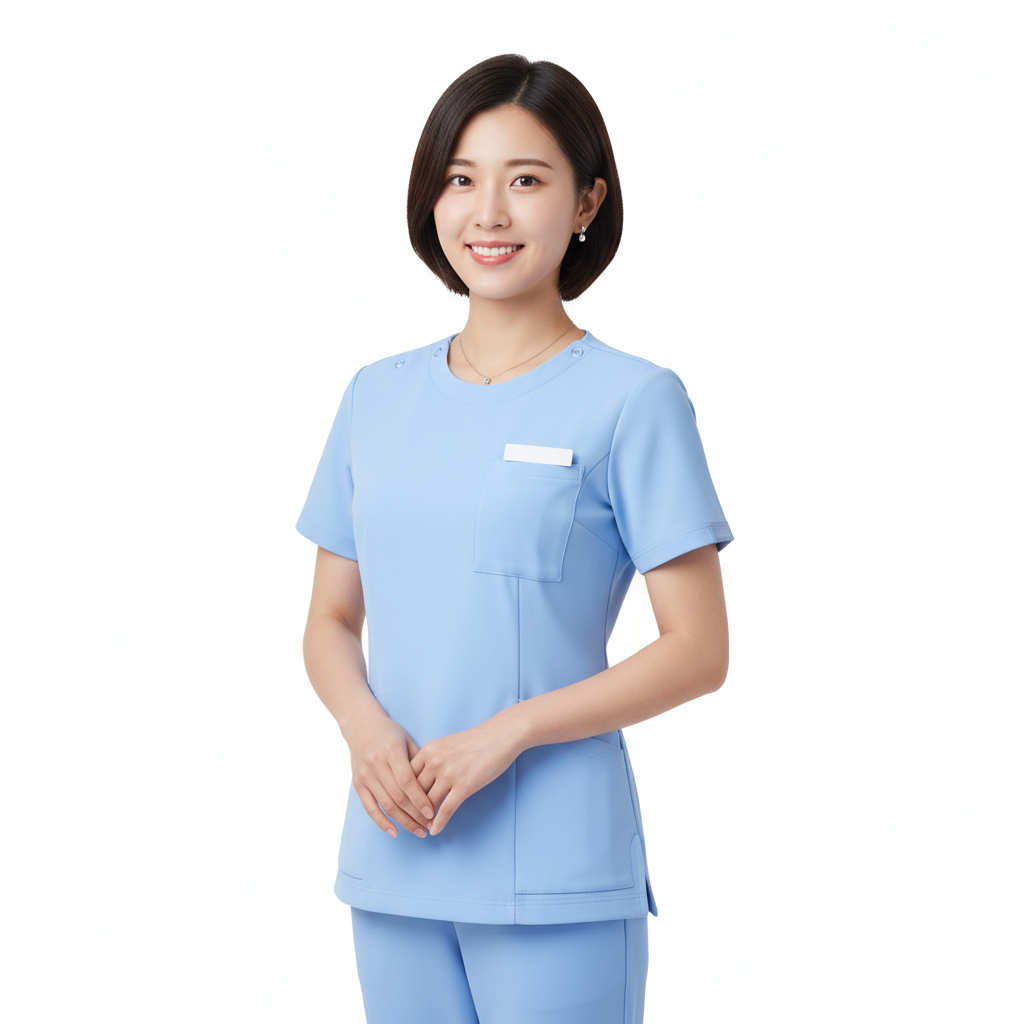
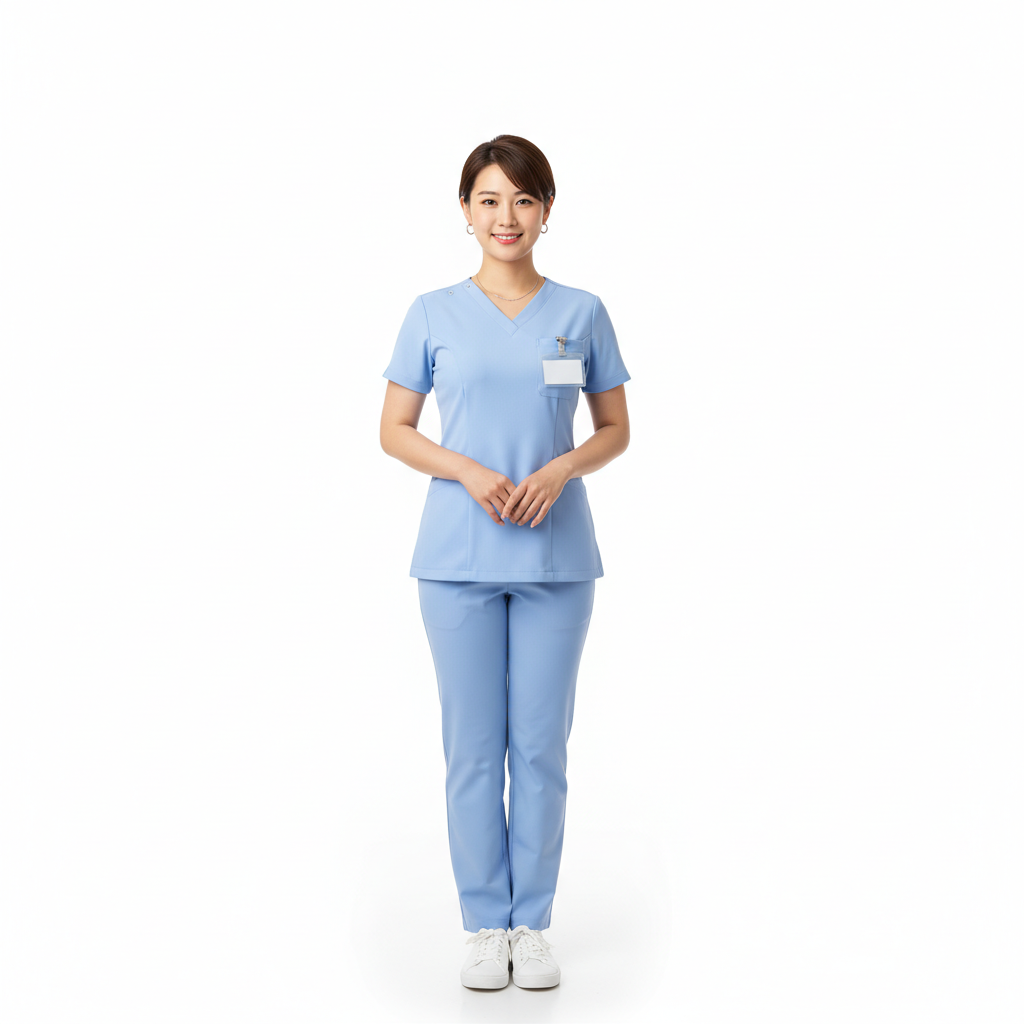
ヘルスアドバイザー再生成: 全身フルショット+グラマラス調整
- 旧版は上半身切れ → 全身フルショット (頭〜白スニーカー) を厳命
- 体型: スマート → 健康的でグラマラス (適度な女性らしい曲線)
- Vネックスクラブで上下のラインが分かる
- 純白背景で flood-fill 透過処理がきれいに効く
- gen script に --advisor-only フラグ追加 (advisor-only 再生成用)
- BOT_STANDING bot_health ?v=5 → ?v=6

Changed region(s): [[0.2812, 0.0312, 0.7188, 1.0]]

diff --git a/public/index.html b/public/index.html
@@ -2771,7 +2771,7 @@ function loadAvatar(u) {
 // 末尾の v= は新ポーズ画像差替時のキャッシュバスター
 const BOT_STANDING = {
   'bot_aoi':    '/assets/concierge_aoi_full.png?v=2',
-  'bot_health': '/assets/concierge_health_full.png?v=5',
+  'bot_health': '/assets/concierge_health_full.png?v=6',
   'bot_safety': '/assets/concierge_safety_full.png?v=3',
   'bot_master': '/assets/concierge_master_full.png?v=1',
 };
